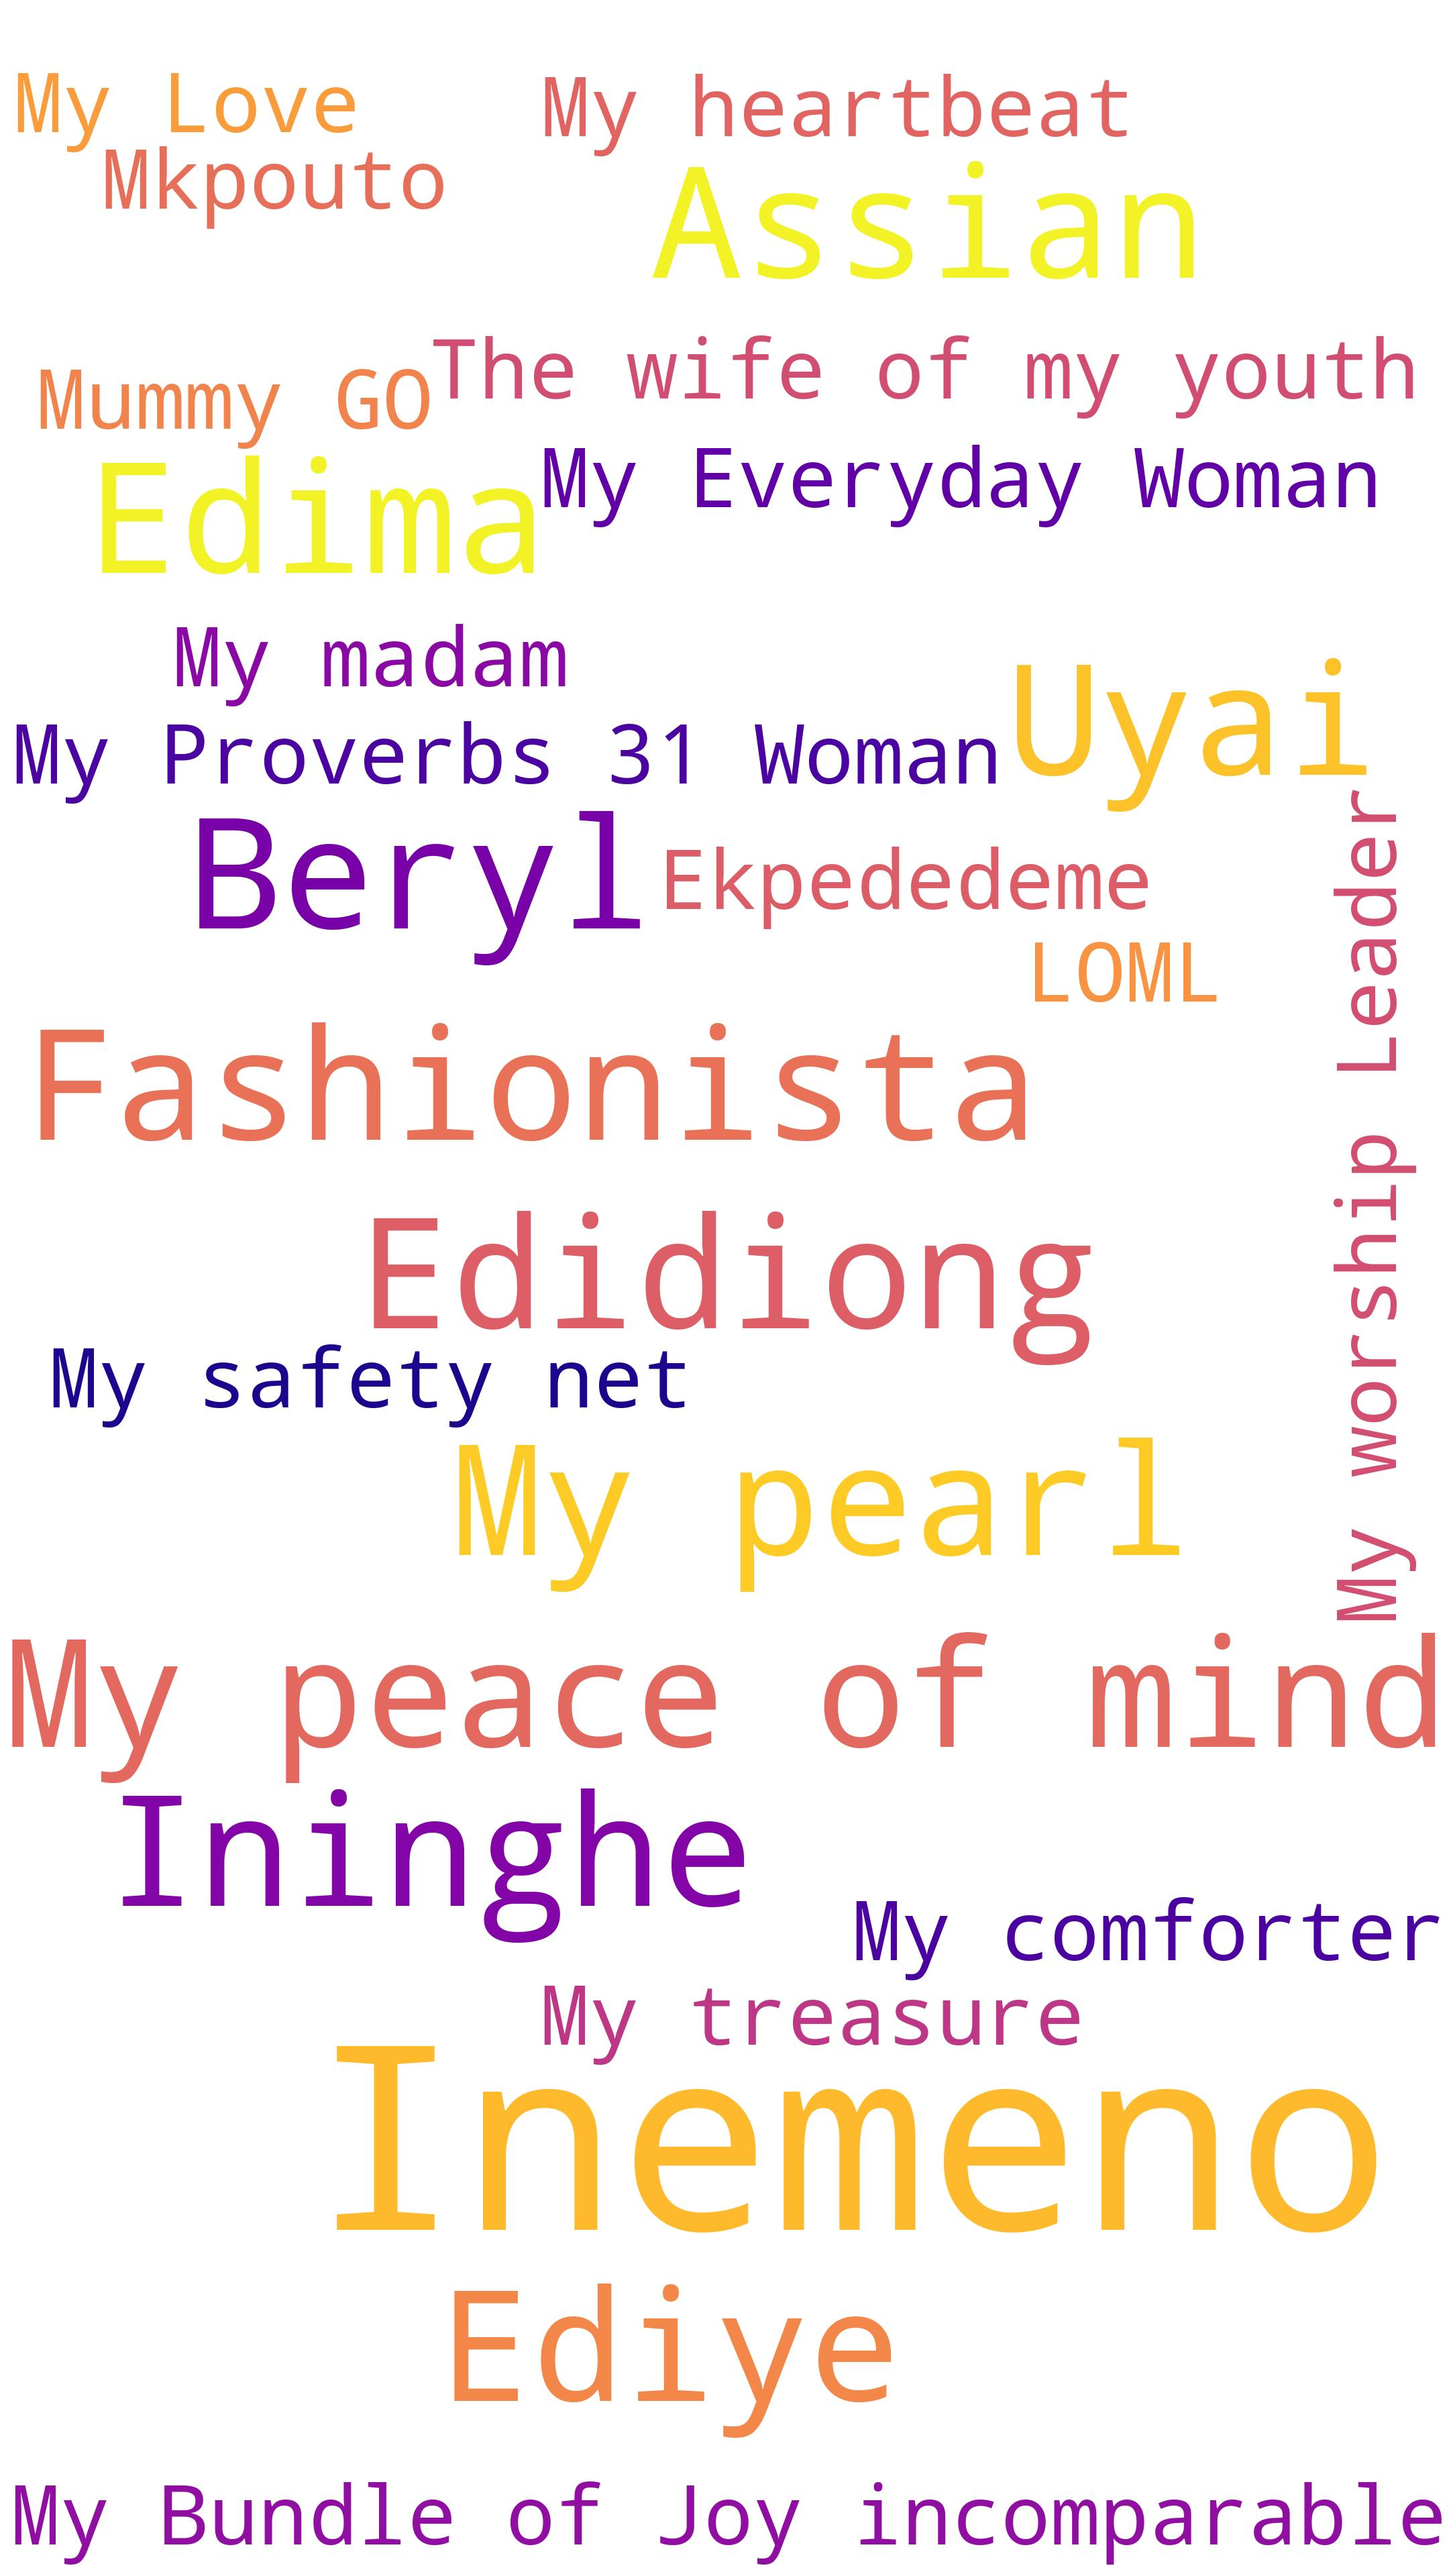
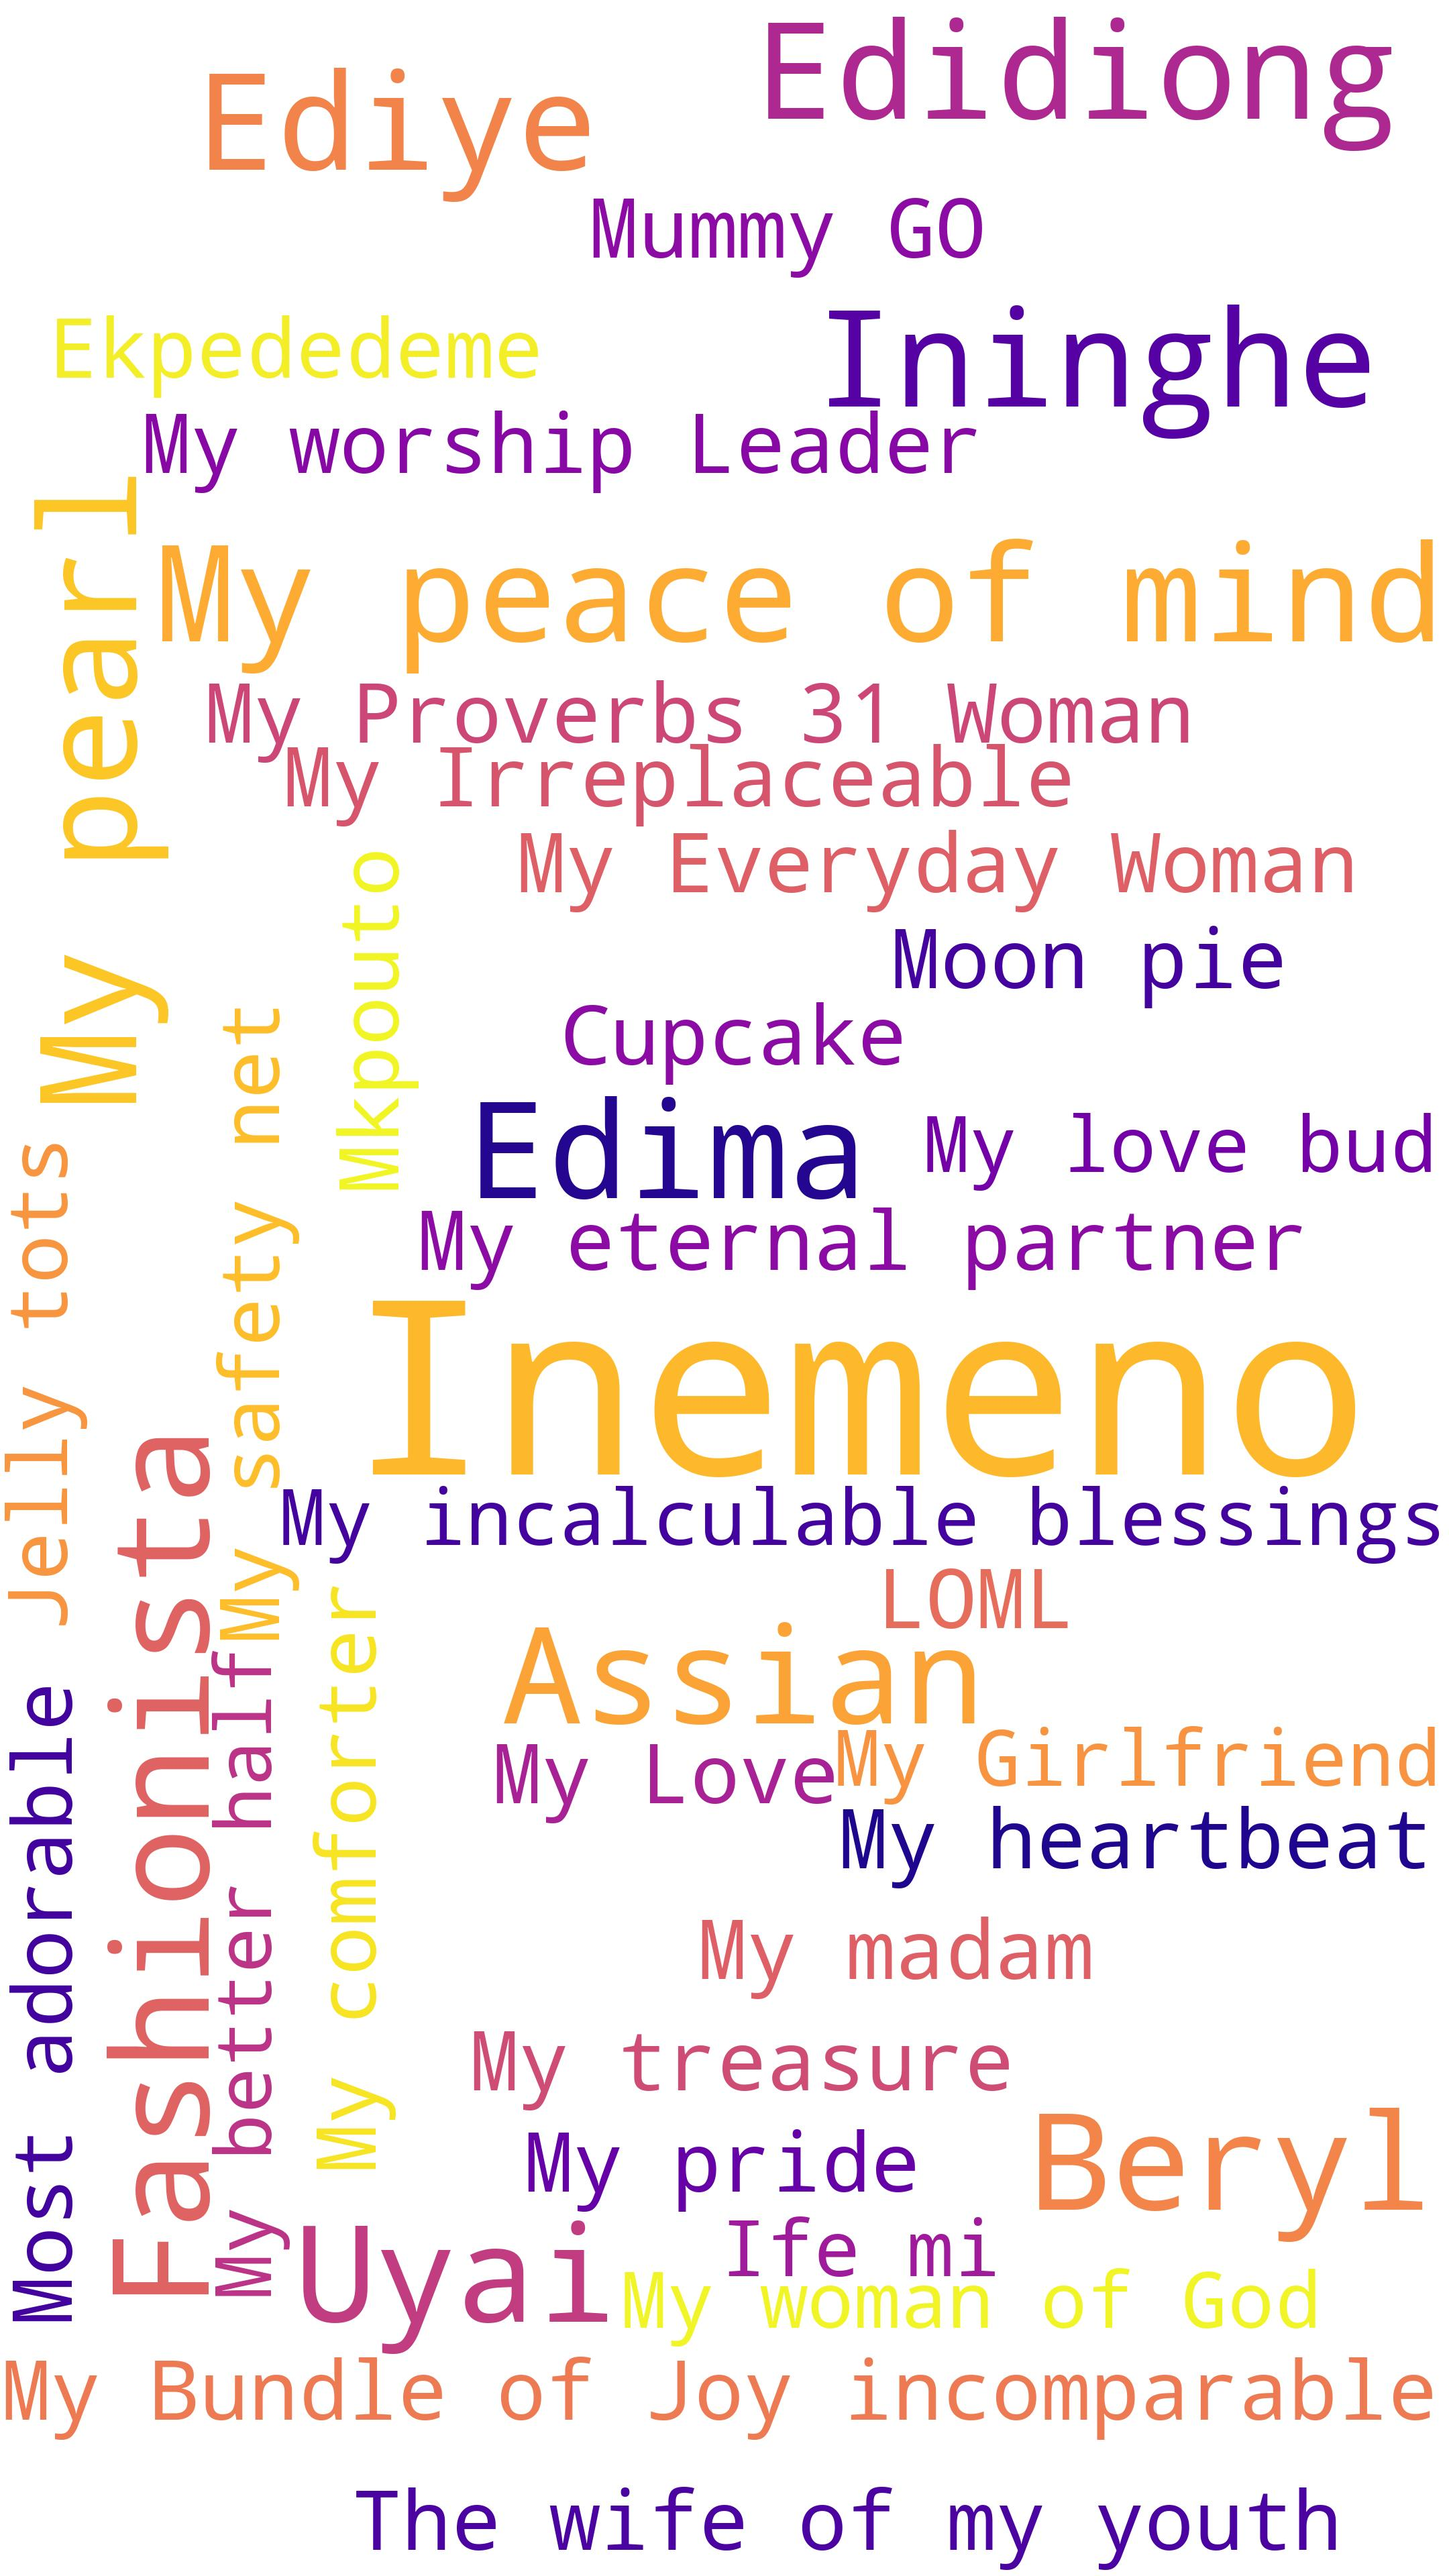
good

Changed region(s): [[0.0, 0.0, 0.9926, 1.0]]

diff --git a/in.py b/in.py
@@ -1,0 +1,63 @@
+from wordcloud import WordCloud
+import matplotlib.pyplot as plt
+
+# Define word frequencies (Inemeno is boldest)
+word_frequencies = {
+    "Inemeno": 100,  # Highest frequency
+    "Assian": 10,
+    "Uyai": 10,
+    "Ininghe": 10,
+    "Edima": 10,
+    "Ediye": 10,
+    "Edidiong": 10,
+    "Beryl": 10,
+    "Fashionista": 10,
+    "My pearl": 10,
+    "My peace of mind": 10,
+    "My Bundle of Joy incomparable": 10,
+    "My Everyday Woman": 10,
+    "My heartbeat": 10,
+    "The wife of my youth": 10,
+    "My safety net": 10,
+    "My comforter": 10,
+    "My Proverbs 31 Woman": 10,
+    "Mummy GO": 10,
+    "My worship Leader": 10,
+    "My madam": 10,
+    "My Love": 10,
+    "LOML": 10,
+    "My treasure": 10,
+    "Mkpouto": 10,
+    "Ekpededeme": 10,
+    "Jelly tots": 10,
+    "Moon pie": 10,
+    "Cupcake": 10,
+    "Most adorable": 10,
+    "My Irreplaceable": 10,
+    "My eternal partner": 10,
+    "My pride": 10,
+    "My incalculable blessings": 10,
+    "My woman of God": 10,
+    "My Girlfriend": 10,
+    "My better half": 10,
+    "Ife mi": 10,
+    "My love bud": 10
+}
+
+# Create the word cloud for portrait 4K resolution
+wordcloud = WordCloud(
+    width=2160,
+    height=3840,
+    background_color='white',
+    colormap='plasma',
+    collocations=False
+).generate_from_frequencies(word_frequencies)
+
+# Set up the figure with matching dimensions and high DPI
+plt.figure(figsize=(21.6, 38.4), dpi=100)
+plt.imshow(wordcloud, interpolation='bilinear')
+plt.axis('off')
+
+# Export as high-quality JPEG
+wordcloud.to_file("wordcloud_portrait_4k.jpeg")
+print("Portrait 4K word cloud saved as 'wordcloud_portrait_4k.jpeg'")
